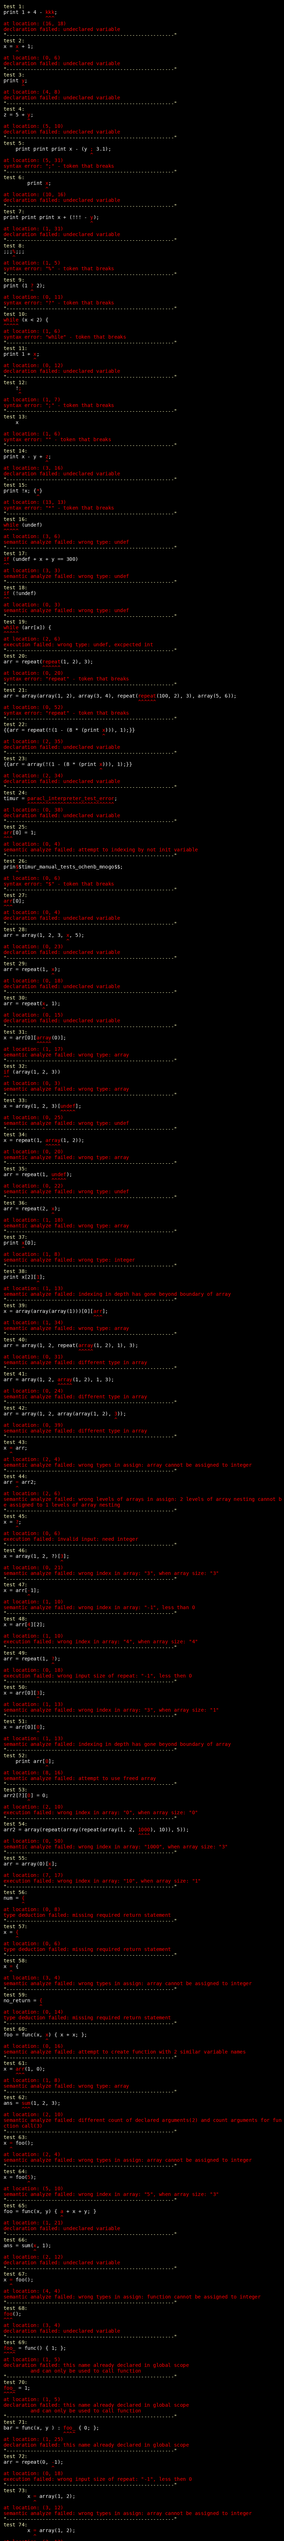
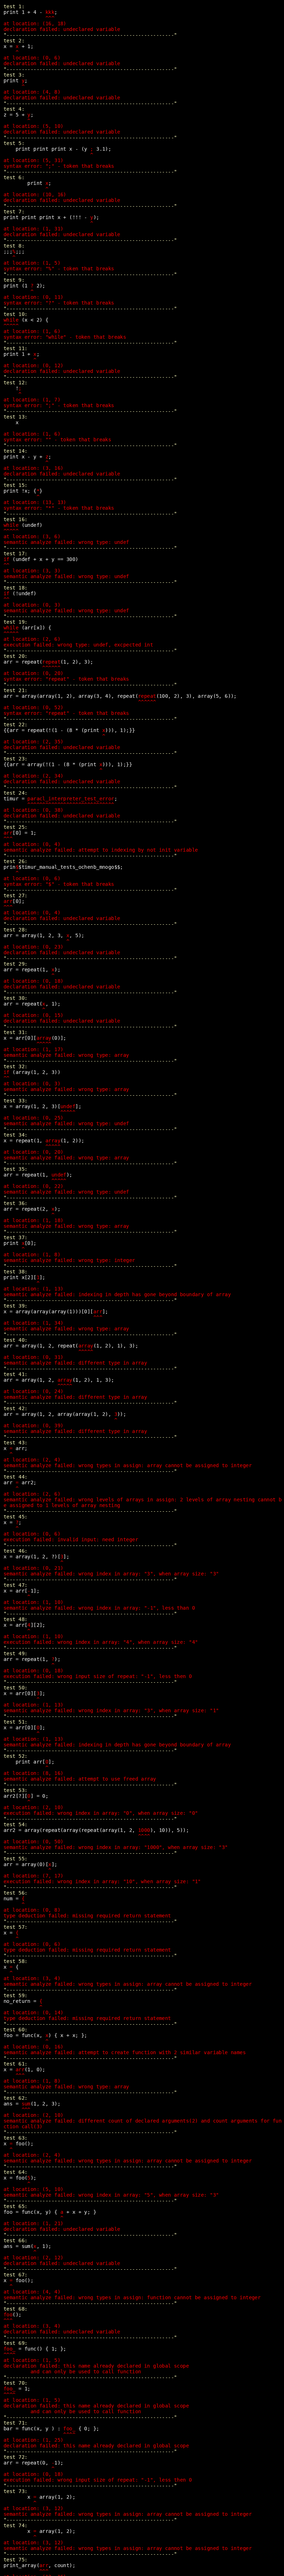
refactor: function args are only ints

diff --git a/include/ParaCL/nodes/common.hpp b/include/ParaCL/nodes/common.hpp
@@ -185,7 +185,6 @@ namespace paracl {
         virtual void print(execute_params_t& params) = 0;
         virtual int  level() const = 0;
         void set_predict(bool value) override {}
-        virtual general_type_e get_general_type() const noexcept = 0;
     };
 
     /* ----------------------------------------------------- */
@@ -210,10 +209,21 @@ namespace paracl {
         switch (type) {
             case node_type_e::INTEGER:  return "integer";
             case node_type_e::UNDEF:    return "undef";
-            case node_type_e::ARRAY:    return "array";
             case node_type_e::INPUT:    return "number";
+            case node_type_e::ARRAY:    return "array";
             case node_type_e::FUNCTION: return "function";
             default:                    return "unknown type";
+        }
+    }
+
+    inline general_type_e to_general_type(node_type_e type) {
+        switch (type) {
+            case node_type_e::INTEGER:  return general_type_e::INTEGER;
+            case node_type_e::UNDEF:    return general_type_e::INTEGER;
+            case node_type_e::INPUT:    return general_type_e::INTEGER;
+            case node_type_e::ARRAY:    return general_type_e::ARRAY;
+            case node_type_e::FUNCTION: return general_type_e::FUNCTION;
+            default:                    throw error_t{str_red("failed to_general_type(): unknown type")};
         }
     }
 
@@ -391,15 +401,18 @@ namespace paracl {
 
     /* ----------------------------------------------------- */
 
-    inline void expect_types_eq(node_type_e result,    node_type_e expected,
+    template <typename T>
+    concept existed_types = std::same_as<T, node_type_e> || std::same_as<T, general_type_e>;
+
+    template <existed_types TypeT>
+    inline void expect_types_eq(TypeT result, TypeT expected,
                                 const location_t& loc, analyze_params_t& params) {
         if (result != expected)
             throw error_analyze_t{loc, params.program_str, "wrong type: " + type2str(result)};
     }
 
-    /* ----------------------------------------------------- */
-
-    inline void expect_types_ne(node_type_e result,    node_type_e expected,
+    template <existed_types TypeT>
+    inline void expect_types_ne(TypeT result, TypeT expected,
                                 const location_t& loc, analyze_params_t& params) {
         if (result == expected)
             throw error_analyze_t{loc, params.program_str, "wrong type: " + type2str(result)};

diff --git a/include/ParaCL/nodes/simple_types.hpp b/include/ParaCL/nodes/simple_types.hpp
@@ -24,8 +24,6 @@ namespace paracl {
         node_expression_t* copy(copy_params_t& params, scope_base_t* parent) const override {
             return params.buf->add_node<node_number_t>(node_loc_t::loc(), number_);
         }
-
-        general_type_e get_general_type() const noexcept override { return general_type_e::INTEGER; }
     };
 
     /* ----------------------------------------------------- */
@@ -47,8 +45,6 @@ namespace paracl {
         node_expression_t* copy(copy_params_t& params, scope_base_t* parent) const override {
             return params.buf->add_node<node_undef_t>(node_loc_t::loc());
         }
-
-        general_type_e get_general_type() const noexcept override { return general_type_e::INTEGER; }
     };
 
     /* ----------------------------------------------------- */
@@ -75,18 +71,19 @@ namespace paracl {
         node_expression_t* copy(copy_params_t& params, scope_base_t* parent) const override {
             return params.buf->add_node<node_input_t>(node_loc_t::loc());
         }
-
-        general_type_e get_general_type() const noexcept override { return general_type_e::INTEGER; }
     };
 
     /* ----------------------------------------------------- */
-    
-    template <typename ParamsT>
+
+    template <typename T>
+    concept existed_params = std::same_as<T, execute_params_t> || std::same_as<T, analyze_params_t>;
+
+    template <existed_params ParamsT>
     value_t make_undef(ParamsT& params, const location_t& loc) {
         return {node_type_e::UNDEF, params.buf()->template add_node<node_undef_t>(loc)};
     }
-    
-    template <typename ParamsT>
+
+    template <existed_params ParamsT>
     value_t make_number(int value, ParamsT& params, const location_t& loc) {
         return {node_type_e::INTEGER, params.buf()->template add_node<node_number_t>(loc, value)};
     }

diff --git a/include/ParaCL/nodes/variable.hpp b/include/ParaCL/nodes/variable.hpp
@@ -22,11 +22,14 @@ namespace paracl {
 
         static void expect_types_assignable(const analyze_t& a_lvalue, const analyze_t& a_rvalue,
                                             const location_t& loc_set, analyze_params_t& params) {
-            node_type_t* lvalue = a_lvalue.result.value;
-            node_type_t* rvalue = a_rvalue.result.value;
+            value_t lresult = a_lvalue.result;
+            value_t rresult = a_rvalue.result;
 
-            general_type_e l_type = lvalue->get_general_type();
-            general_type_e r_type = rvalue->get_general_type();
+            node_type_t* lvalue = lresult.value;
+            node_type_t* rvalue = rresult.value;
+
+            general_type_e l_type = to_general_type(lresult.type);
+            general_type_e r_type = to_general_type(rresult.type);
 
             check_types_in_assign(l_type, r_type, loc_set, params);
 

diff --git a/include/ParaCL/nodes/function.hpp b/include/ParaCL/nodes/function.hpp
@@ -101,7 +101,10 @@ namespace paracl {
 
         void analyze(analyze_params_t& params) {
             process_args([](auto arg, auto& params) {
-                return arg->analyze(params);
+                analyze_t arg_value = arg->analyze(params);
+                expect_types_eq(to_general_type(arg_value.result.type), general_type_e::INTEGER,
+                                arg->loc(), params);
+                return arg_value;
             }, params);
         }
 
@@ -212,8 +215,6 @@ namespace paracl {
         size_t count_args() const { return args_->size(); }
 
         analyze_t a_value() const { return a_value_; }
-
-        general_type_e get_general_type() const noexcept override { return general_type_e::FUNCTION; }
     };
 
     /* ----------------------------------------------------- */

diff --git a/include/ParaCL/nodes/array.hpp b/include/ParaCL/nodes/array.hpp
@@ -585,6 +585,5 @@ namespace paracl {
         }
 
         int level() const override { return 1 + init_values_->get_level(); }
-        general_type_e get_general_type() const noexcept override { return general_type_e::ARRAY; }
     };
 }
